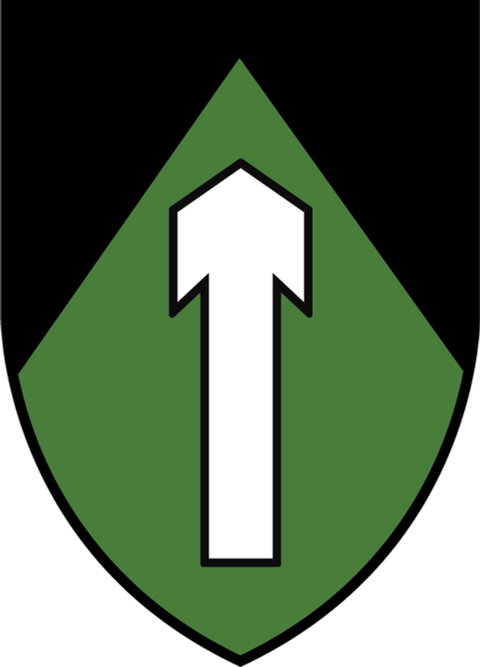
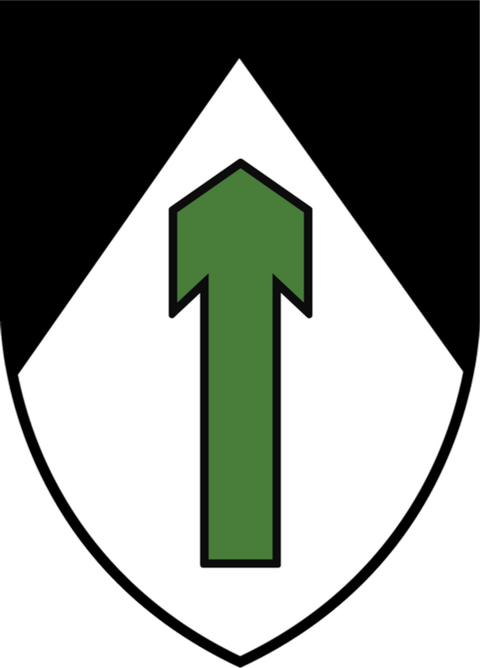
Escudos de Escuderos y Templarios intercambiados

diff --git a/js/config/constants.js b/js/config/constants.js
@@ -140,7 +140,7 @@
     { id: 'otros', label: 'Otros cantos' }
   ];
 
-  export var APP_VERSION = '2026.11.14.1';
+  export var APP_VERSION = '2026.11.14.2';
 
   // Rangos «en hijos» (T13, decidido por el usuario 03/11/2026): el camino del
   // hijo menor de la parábola. `umbral` = % de puntos por default para llegar
@@ -160,6 +160,9 @@
   // día que `APP_VERSION` — lista corta, van quedando las últimas
   // novedades, más viejo abajo.
   export var CHANGELOG = [
+    { version: '2026.11.14.2', date: '14/11/2026', items: [
+      'Los escudos de Escuderos y Templarios estaban al revés: ya están corregidos.'
+    ]},
     { version: '2026.11.14.1', date: '14/11/2026', items: [
       'Misas: al crearlas se puede elegir para quién son visibles, igual que las entradas.'
     ]},

diff --git a/js/utils/badge-icons.js b/js/utils/badge-icons.js
@@ -42,10 +42,10 @@ import { icon } from './icons.js';
 export function sectionShieldHtml(seccion){
   if(!seccion) return '';
   if(seccion === 'Escuderos'){
-    return '<img src="assets/escudo-escuderos.png" alt="Escuderos" style="width:100%;height:100%;object-fit:contain;">';
+    return '<img src="assets/escudo-escuderos.png?v=2" alt="Escuderos" style="width:100%;height:100%;object-fit:contain;">';
   }
   if(seccion.indexOf('Templarios') === 0){
-    return '<img src="assets/escudo-templarios.png" alt="Templarios" style="width:100%;height:100%;object-fit:contain;">';
+    return '<img src="assets/escudo-templarios.png?v=2" alt="Templarios" style="width:100%;height:100%;object-fit:contain;">';
   }
   return '';
 }

diff --git a/js/views/mensaje.js b/js/views/mensaje.js
@@ -114,8 +114,8 @@ import { showConfirm, showAlert } from '../components/dialog.js';
   var GRUPO_ICONOS = [
     { id: 'folder', label: 'Carpeta' },
     { id: 'house', label: 'Casa' },
-    { id: 'img:escuderos', label: 'Escudo de Escuderos', src: 'assets/escudo-escuderos.png' },
-    { id: 'img:templarios', label: 'Escudo de Templarios', src: 'assets/escudo-templarios.png' },
+    { id: 'img:escuderos', label: 'Escudo de Escuderos', src: 'assets/escudo-escuderos.png?v=2' },
+    { id: 'img:templarios', label: 'Escudo de Templarios', src: 'assets/escudo-templarios.png?v=2' },
     { id: 'cross', label: 'Cruz' },
     { id: 'book-open', label: 'Biblia' },
     { id: 'praying-hands', label: 'Manos rezando' },
